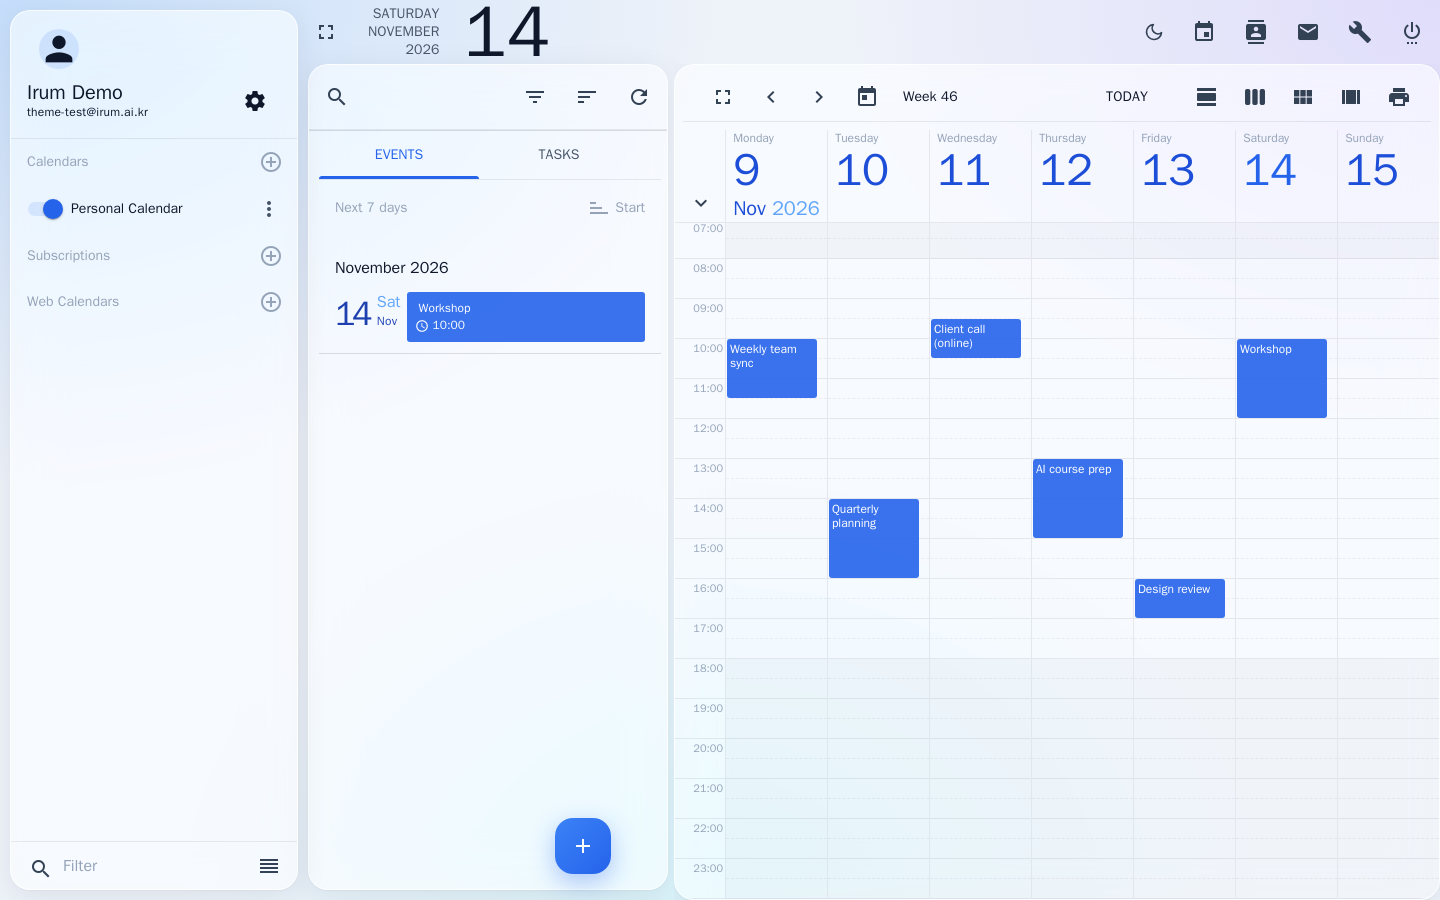
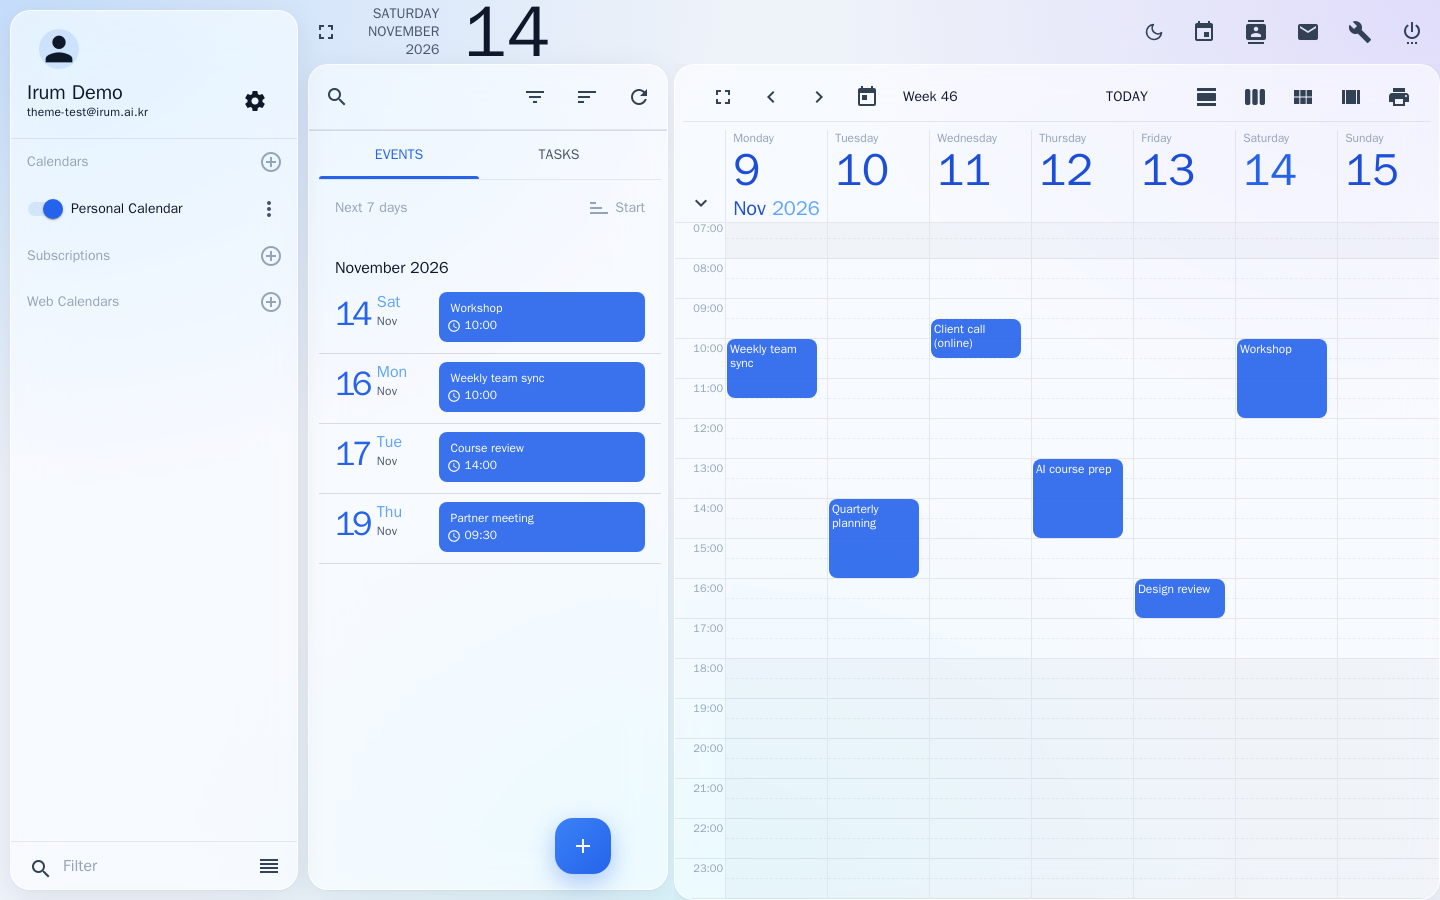
Fix calendar event list: date overlapped the event card
SOGo gives the date column in the event list a fixed 72px, so a long
weekday such as "토요일" ran under the event card. The column is now a
fixed 104px so cards line up in every language, and the date colors
follow the theme in dark mode. Calendar screenshots retaken.

Changed region(s): [[0.2188, 0.3111, 0.4688, 0.6222]]

diff --git a/soft-glass-theme.js b/soft-glass-theme.js
@@ -384,6 +384,12 @@
     'html.irum-glass [ui-view="calendars"] .allDaysView, html.irum-glass [ui-view="calendars"] .allDaysView--sidenav { border-bottom-color: var(--ig-line) !important; }',
     'html.irum-glass .md-datepicker-input, html.irum-glass input.md-input, html.irum-glass md-select .md-select-value { color: var(--ig-text) !important; }',
     'html.irum-glass .md-datepicker-input-container { border-color: var(--ig-line) !important; }',
+    /* 일정 목록: SOGo 의 날짜 칸은 72px 라 "14 토요일"처럼 긴 요일이 일정 카드 아래로 넘친다.
+       한국어 요일까지 들어가는 고정 폭으로 넓혀서, 언어와 요일에 상관없이 카드가 일렬로 정렬되게 한다 */
+    'html.irum-glass .sg-calendar-date { width: 104px !important; min-width: 104px !important; max-width: none !important; flex: 0 0 104px !important; padding-right: 8px; box-sizing: border-box; overflow: hidden; }',
+    'html.irum-glass .sg-calendar-date .sg-calendar-day { color: var(--ig-accent) !important; }',
+    'html.irum-glass .sg-calendar-date .md-caption { color: var(--ig-text-2) !important; }',
+    'html.irum-glass .sg-event { border-radius: 8px !important; }',
     'html.irum-glass md-switch.md-checked .md-bar { background-color: var(--ig-accent-soft) !important; }',
     'html.irum-glass md-switch.md-checked .md-thumb { background-color: var(--ig-accent) !important; }',
 
